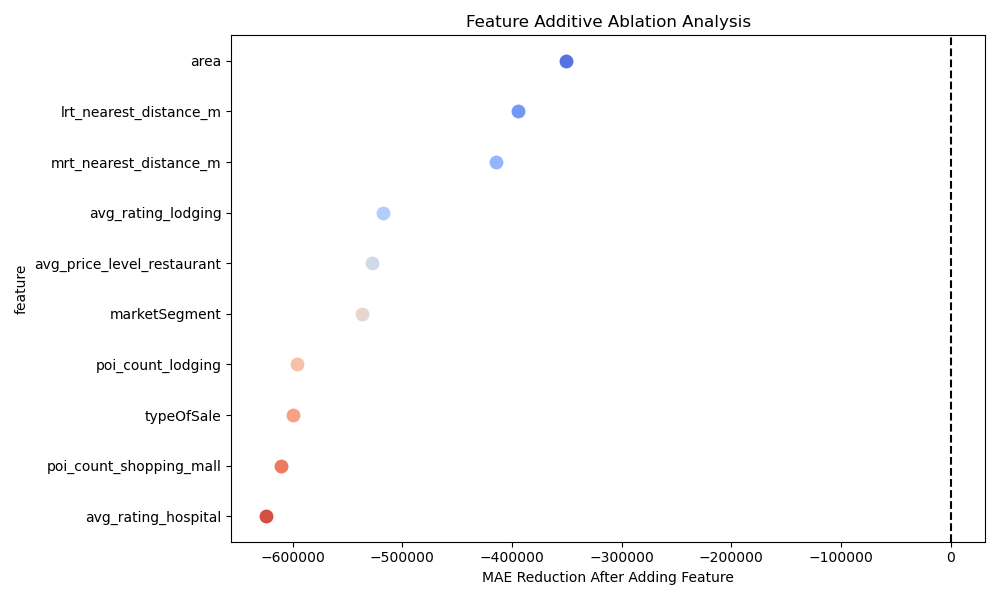
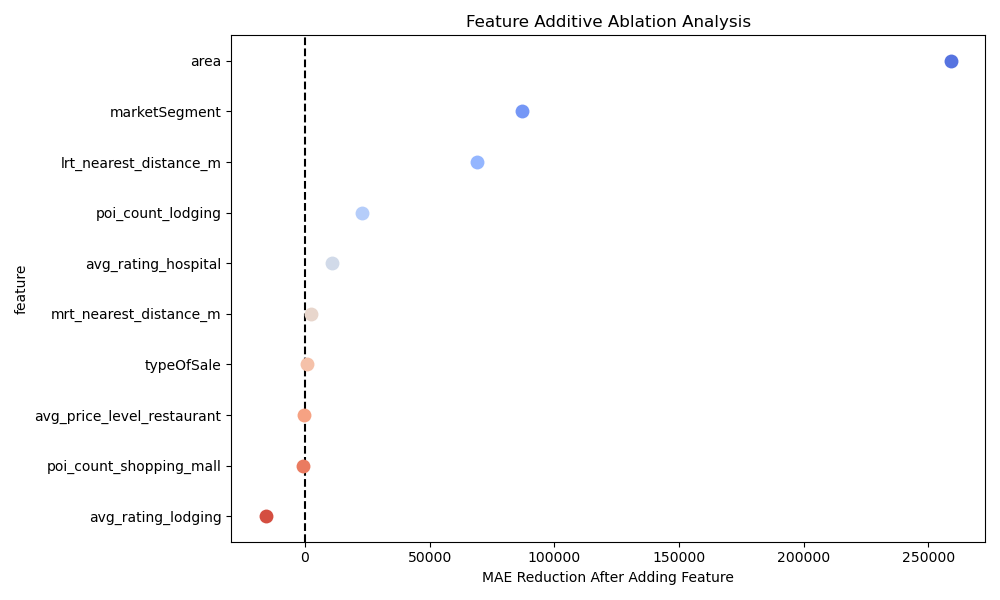
fix ablation

diff --git a/src/analysis/ablation_analysis.py b/src/analysis/ablation_analysis.py
@@ -2,18 +2,19 @@
 Ablation analysis function and identify feature importance
 """
 
-import logging
 import json
+import logging
 from dataclasses import dataclass
-import seaborn as sns
+
 import matplotlib.pyplot as plt
 import pandas as pd
-from sklearn.metrics import mean_absolute_error
-from sklearn.base import clone, BaseEstimator
+import seaborn as sns
+from sklearn.base import BaseEstimator, clone
 from sklearn.compose import ColumnTransformer
+from sklearn.metrics import mean_absolute_error
 from sklearn.pipeline import Pipeline
-from src.utils.load_configs import load_configs_file
 
+from src.utils.load_configs import load_configs_file
 
 logging.basicConfig(level=logging.INFO)
 logger = logging.getLogger(__name__)
@@ -24,49 +25,39 @@ class Dataset:
     """
     Dataset params
     """
+
     x_train: pd.DataFrame
     x_test: pd.DataFrame
     y_train: pd.Series
     y_test: pd.Series
+
 
 @dataclass
 class FeatureSet:
     """
     feature params
     """
+
     numeric: list[str]
     categorical: list[str]
     added_feature: str
+
 
 @dataclass
 class AblationInput:
     """
     Ablation params
     """
+
     pipeline: any
     data: Dataset
     features: FeatureSet
     model: BaseEstimator
 
 
-def _load_ablation_config_and_metrics(config_path, cv_result_path):
-    """
-    Load ablation features configuration and baseline MAE from JSON file.
-
-    :param config_path: Path to the feature configuration YAML file
-    :type config_path: str
-    :param cv_result_path: Path to the cross-validation results JSON file
-    :type cv_result_path: str
-    :return: Tuple of (list of ablation features, baseline MAE)
-    :rtype: tuple[list[str], float]
-    """
-    all_features = load_configs_file(config_path)["ablation_features"]
-    with open(cv_result_path, "r", encoding="utf-8") as f:
-        baseline_mae = json.load(f)["best_model"]["metrics"]["MAE"]
-    return all_features, baseline_mae
-
-
-def get_updated_preprocessor(original_pipeline, new_num_features, new_cat_features):
+def get_updated_preprocessor(
+    original_pipeline, new_num_features, new_cat_features
+):
     """Generate preprocessor with new features
     on top of old ones.
     :param original_pipeline: Fitted sklearn Pipeline from cross-validation
@@ -77,7 +68,9 @@ def get_updated_preprocessor(original_pipeline, new_num_features, new_cat_featur
     :type new_num_features: list of str
     """
 
-    old_transformers = original_pipeline.named_steps["preprocessing"].transformers
+    old_transformers = original_pipeline.named_steps[
+        "preprocessing"
+    ].transformers
 
     num_transformer = [t for t in old_transformers if t[0] == "num"][0][1]
     cat_transformer = [t for t in old_transformers if t[0] == "cat"][0][1]
@@ -85,7 +78,7 @@ def get_updated_preprocessor(original_pipeline, new_num_features, new_cat_featur
     new_preprocessor = ColumnTransformer(
         transformers=[
             ("num", clone(num_transformer), new_num_features),
-            ("cat", clone(cat_transformer), new_cat_features)
+            ("cat", clone(cat_transformer), new_cat_features),
         ]
     )
     return new_preprocessor
@@ -93,7 +86,7 @@ def get_updated_preprocessor(original_pipeline, new_num_features, new_cat_featur
 
 def _convert_categoricals_as_str(df, columns):
     """
-    Convert categorical or interval columns 
+    Convert categorical or interval columns
     in the given DataFrame to string type.
 
     :param df: DataFrame to convert columns
@@ -105,10 +98,12 @@ def _convert_categoricals_as_str(df, columns):
     """
     for col in columns:
         if col in df.columns:
-            if pd.api.types.is_categorical_dtype(df[col]) \
-            or isinstance(df[col].dropna().iloc[0], pd.Interval):
+            if pd.api.types.is_categorical_dtype(df[col]) or isinstance(
+                df[col].dropna().iloc[0], pd.Interval
+            ):
                 df[col] = df[col].astype(str)
     return df
+
 
 def _evaluate_with_added_feature(inputs: AblationInput) -> float:
     """
@@ -119,34 +114,28 @@ def _evaluate_with_added_feature(inputs: AblationInput) -> float:
     :return: MAE score after adding the feature
     :rtype: float
     """
-    num, cat = list(inputs.features.numeric), list(inputs.features.categorical)
-    feature = inputs.features.added_feature
+    num = inputs.features.numeric
+    cat = inputs.features.categorical
 
     x_train_base = inputs.data.x_train
     x_test_base = inputs.data.x_test
-
-    if feature in x_train_base.columns and (
-        x_train_base[feature].dtype == "object"
-        or str(x_train_base[feature].dtype).startswith("category")
-    ):
-        cat.append(feature)
-    else:
-        num.append(feature)
 
     x_train = x_train_base[num + cat]
     x_test = x_test_base[num + cat]
 
     preprocessor = get_updated_preprocessor(inputs.pipeline, num, cat)
-    model_pipeline = Pipeline([
-        ("preprocessing", preprocessor),
-        ("model", clone(inputs.model))
-    ])
+    model_pipeline = Pipeline(
+        [("preprocessing", preprocessor), ("model", clone(inputs.model))]
+    )
     model_pipeline.fit(x_train, inputs.data.y_train)
     preds = model_pipeline.predict(x_test)
+
     return mean_absolute_error(inputs.data.y_test, preds)
 
-def extract_top_features_from_importance(path: str,
-    top_k: int = 10) -> tuple[list[str], list[str]]:
+
+def extract_top_features_from_importance(
+    path: str, top_k: int = 10
+) -> tuple[list[str], list[str]]:
     """
     Extract top unique feature names.
 
@@ -154,38 +143,45 @@ def extract_top_features_from_importance(path: str,
     :type path: str
     :param top_k: Number of top unique features based on importance score.
     :type top_k: int
-    :return: Tuple containing two lists — top numeric and top categorical 
+    :return: Tuple containing two lists — top numeric and top categorical
     :rtype: tuple[list[str], list[str]]
     """
     with open(path, "r", encoding="utf-8") as f:
         feature_importance = json.load(f)["best_model"]["feature_importance"]
 
-    sorted_features = sorted(feature_importance.items(), key=lambda x: x[1], reverse=True)
+    sorted_features = sorted(
+        feature_importance.items(), key=lambda x: x[1], reverse=True
+    )
 
     seen = set()
-    top_features = []
+    top_features_name = []
+    top_features_full = []
 
     for full_name, _ in sorted_features:
         if full_name.startswith("num__"):
             name = full_name.split("__", 1)[1]
+            ftype = "num"
         elif full_name.startswith("cat__"):
             name = full_name.split("__", 1)[1].split("_", 1)[0]
+            ftype = "cat"
         else:
             continue
 
         if name not in seen:
             seen.add(name)
-            top_features.append((full_name, name))
+            top_features_name.append(name)
+            top_features_full.append((name, ftype))
 
-        if len(top_features) == top_k:
+        if len(top_features_name) == top_k:
             break
 
-    num_features = [name for full_name, name in top_features if full_name.startswith("num__")]
-    cat_features = [name for full_name, name in top_features if full_name.startswith("cat__")]
-    return num_features, cat_features
+    return top_features_name, top_features_full
 
 
-def plot_ablation(diffs: dict, save_path: str = "./src/data/plot/ablation_additive_analysis.png"):
+def plot_ablation(
+    diffs: dict,
+    save_path: str = "./src/data/plot/ablation_additive_analysis.png",
+):
     """
     Plot chart to visualize feature ablation effects.
 
@@ -194,24 +190,38 @@ def plot_ablation(diffs: dict, save_path: str = "./src/data/plot/ablation_additi
     :param save_path: Path to save the generated plot image
     :type save_path: str
     """
-    diffs_sorted = dict(sorted(diffs.items(), key=lambda item: item[1], reverse=True))
-    df_plot = pd.DataFrame({
-    "feature": list(diffs_sorted.keys()),
-    "mae_reduction": list(diffs_sorted.values())
-    })
+    diffs_sorted = dict(
+        sorted(diffs.items(), key=lambda item: item[1], reverse=True)
+    )
+    df_plot = pd.DataFrame(
+        {
+            "feature": list(diffs_sorted.keys()),
+            "mae_reduction": list(diffs_sorted.values()),
+        }
+    )
 
     plt.figure(figsize=(10, 6))
-    sns.stripplot(data=df_plot, x="mae_reduction", y="feature",
-        jitter=True, palette="coolwarm", size=10)
-    plt.axvline(0, linestyle='--', color='black')
+    sns.stripplot(
+        data=df_plot,
+        x="mae_reduction",
+        y="feature",
+        jitter=True,
+        palette="coolwarm",
+        size=10,
+    )
+    plt.axvline(0, linestyle="--", color="black")
     plt.xlabel("MAE Reduction After Adding Feature")
     plt.title("Feature Additive Ablation Analysis")
     plt.tight_layout()
     plt.savefig(save_path)
 
 
-def perform_ablation_analysis(best_model_pipeline, df_input_train,
-        df_input_test, target_column="target_price"):
+def perform_ablation_analysis(
+    best_model_pipeline,
+    df_input_train,
+    df_input_test,
+    target_column="target_price",
+):
     """
     Performs ablation analysis on the best model pipeline by adding one feature at a time
     and observing the change in Mean Absolute Error (MAE) on the test set.
@@ -225,46 +235,61 @@ def perform_ablation_analysis(best_model_pipeline, df_input_train,
     :param target_column: Name of the target column
     :type target_column: str
     """
-
-    all_ablation_features, baseline_mae = _load_ablation_config_and_metrics(
-        "features.yml", "./src/data/output/all_models_features_results.json"
-    )
-    logger.info("Loaded baseline MAE: %.4f", baseline_mae)
-
-    num_features, cat_features = extract_top_features_from_importance(
-    "./src/data/output/all_models_features_results.json"
+    top_features_name, top_features_full = (
+        extract_top_features_from_importance(
+            "./src/data/output/all_models_features_results.json"
+        )
     )
 
-    #addable = [f for f in all_ablation_features if f not in set(num_features + cat_features)]
-    addable = list(num_features + cat_features)
+    logger.info("Top 10 features: %s", top_features_name)
 
-    logger.info("Ablation features in yml: %s", all_ablation_features)
-
-    logger.info("Top 10 features: %s and %s", num_features, cat_features)
-
-    logger.info("Features to be added: %s", addable)
-    num_features = []
-    cat_features = []
     df_input_train = df_input_train.sort_values("contract_date_dt").copy()
     df_input_test = df_input_test.sort_values("contract_date_dt").copy()
 
     x_train_base = df_input_train.drop(columns=[target_column])
     x_test_base = df_input_test.drop(columns=[target_column])
 
-    x_train_base = _convert_categoricals_as_str(x_train_base, addable)
-    x_test_base = _convert_categoricals_as_str(x_test_base, addable)
+    x_train_base = _convert_categoricals_as_str(
+        x_train_base, top_features_name
+    )
+    x_test_base = _convert_categoricals_as_str(x_test_base, top_features_name)
+
+    y_train = df_input_train[target_column]
+    y_test = df_input_test[target_column]
+
+    # Baseline MAE using mean target value
+    mean_train_target = y_train.mean()
+    baseline_mae = mean_absolute_error(
+        y_test, [mean_train_target] * len(y_test)
+    )
+    logger.info("Baseline MAE (Mean of Target): %.4f", baseline_mae)
 
     results = {}
-    for feature in addable:
+    prev_mae = baseline_mae
+    cumulative_num, cumulative_cat = [], []
+
+    for feature, ftype in top_features_full:
+        if ftype == "cat":
+            cumulative_cat.append(feature)
+        else:
+            cumulative_num.append(feature)
+
         inputs = AblationInput(
             pipeline=best_model_pipeline,
-            data=Dataset(x_train_base, x_test_base,
-                df_input_train[target_column], df_input_test[target_column]),
-            features=FeatureSet(num_features, cat_features, feature),
-            model=best_model_pipeline.named_steps["model"]
+            data=Dataset(
+                x_train_base,
+                x_test_base,
+                df_input_train[target_column],
+                df_input_test[target_column],
+            ),
+            features=FeatureSet(
+                cumulative_num.copy(), cumulative_cat.copy(), feature
+            ),
+            model=best_model_pipeline.named_steps["model"],
         )
 
-        results[feature] = _evaluate_with_added_feature(inputs)
+        new_mae = _evaluate_with_added_feature(inputs)
+        results[feature] = prev_mae - new_mae
+        prev_mae = new_mae
 
-    diffs = {k: baseline_mae - v for k, v in results.items()}
-    plot_ablation(diffs)
+    plot_ablation(results)

diff --git a/run.py b/run.py
@@ -186,7 +186,7 @@ def run_all(poi_type_list):
             output_path=OUTPUT_PATHS[f"{feature_set}_results"],
         )
 
-        feature_ablation_results.append(feature_ablation_result)
+    feature_ablation_results.append(feature_ablation_result)
 
     # Additive ablation analysis
     perform_ablation_analysis(
